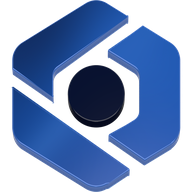
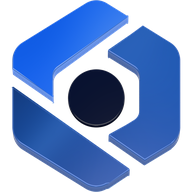
Header mark: top-left blade in the accent blue; thin core so the dot reads as a circle

diff --git a/tools/tiles/logo-boot.js b/tools/tiles/logo-boot.js
@@ -3,7 +3,9 @@
 // same studio light. PARAMS: look 'cobalt' (the focused tile's glass) or 'clear' (a default tile's
 // frosted glass), elev (camera height in degrees), size (logo width in tile units), depth (slab thickness as a share of a tile's), inset (SVG units each blade is
 // pulled in by, which widens the gaps between blades; the navy core keeps its size), spin (degrees the mark turns in its own plane,
-// for turntable frames), transparent (no floor
+// for turntable frames), coreDepth (the core's thickness as a share of the blades': thin keeps it reading as a
+// circle once straightened, its wall hidden), accentPath (index of the SVG path drawn in the accent blue,
+// the site's --color-accent), transparent (no floor
 // or background, for a cut-out PNG). __info.corners gives the screen pixels of the mark's top-face square,
 // so the frame can be straightened into a front view (tools/tiles/flatten_logo.py).
 import * as THREE from 'three';
@@ -13,7 +15,7 @@ import { floorMaterial, floorUniforms } from '/src/tiles/floor-material.js';
 import { buildComposer } from '/src/tiles/post.js';
 
 const RAW = await fetch('/tiles/floor-params.json').then((r) => r.json());
-const opt = Object.assign({ look: 'cobalt', elev: 40, size: 1.6, transparent: false, depth: 1, inset: 0, spin: 0 }, window.PARAMS);
+const opt = Object.assign({ look: 'cobalt', elev: 40, size: 1.6, transparent: false, depth: 1, inset: 0, spin: 0, coreDepth: 1, accentPath: -1 }, window.PARAMS);
 const P = Object.assign({ W: 1920, H: 1080 }, RAW, RAW.states?.default ?? {}, { actHeadGlow: 0 }, opt.transparent ? { filmGrain: 0 } : {});
 
 const renderer = new THREE.WebGLRenderer({ antialias: true, preserveDrawingBuffer: true, alpha: opt.transparent });
@@ -44,18 +46,23 @@ const svg = new SVGLoader().parse(await fetch('/brand/sixlabs-mark.svg').then((r
 const [vx, vy, vw, vh] = svg.xml.getAttribute('viewBox').split(/\s+/).map(Number);
 const k = opt.size / vw, cx = vx + vw / 2, cy = vy + vh / 2, span = Math.max(vw, vh) * k; // UV square: the tile textures are square
 const logo = new THREE.Group();
-for (const path of svg.paths) {
-  const navy = path.color.getHexString() === '030d2d';
+// The accent blade: the same cobalt glass, its colours lifted to the site accent (#1a6dff).
+const PX = Object.assign({}, P, {
+  actLightCol: '#4d8dff', actDarkCol: '#1a6dff', actSheenCol: '#5b97ff', actUnderCol: '#1a5ee6', actRim: '#1a5ee6',
+  actSide: '#8ab4ff', actSideDark: '#1a5ee6', actSideLight: '#4d8dff',
+});
+svg.paths.forEach((path, pi) => {
+  const navy = path.color.getHexString() === '030d2d', depth = P.core * opt.depth * (navy ? opt.coreDepth : 1);
   for (const shape of path.toShapes(true)) {
     const g = new THREE.ExtrudeGeometry(shape, {
-      depth: P.core * opt.depth / k, bevelEnabled: true, bevelThickness: P.bevelT / k, bevelSize: P.bevel / k, bevelOffset: navy ? 0 : -opt.inset, bevelSegments: 6, curveSegments: 24,
+      depth: depth / k, bevelEnabled: true, bevelThickness: P.bevelT / k, bevelSize: P.bevel / k, bevelOffset: navy ? 0 : -opt.inset, bevelSegments: 6, curveSegments: 24,
     });
     g.translate(-cx, -cy, 0);
     g.scale(k, k, k);
     // Lie flat with the SVG's first face on top: SVG down becomes toward the camera, so the mark reads
     // upright, and nothing is mirrored (a mirror would turn every face inside out).
     g.rotateX(Math.PI / 2);
-    g.translate(0, P.core * opt.depth + P.bevelT, 0);
+    g.translate(0, depth + P.bevelT, 0);
     const pos = g.attributes.position, uv = g.attributes.uv;
     for (let n = 0; n < pos.count; n++) uv.setXY(n, pos.getX(n) / span + 0.5, 0.5 - pos.getZ(n) / span);
     const beamU = { uBeam: { value: 2 }, uBeamI: { value: 0 }, uFlare: { value: 0 }, uBackRim: { value: 0 }, uShine: { value: new THREE.Color(0) }, uHotF: { value: new THREE.Color(0) }, uHotR: { value: new THREE.Color(0) } };
@@ -64,10 +71,10 @@ for (const path of svg.paths) {
     if (navy && opt.look !== 'clear') { // the clear look keeps the core in the same white glass
       const dark = new THREE.MeshPhysicalMaterial({ color: '#030d2d', roughness: 0.12, clearcoat: 1, clearcoatRoughness: 0.04, envMapIntensity: 1.2 });
       mats = [dark, dark];
-    } else mats = opt.look === 'clear' ? glassMaterials(P, { leftBand: false }) : activeMaterials(P, rearEnv, beamU);
+    } else mats = opt.look === 'clear' ? glassMaterials(P, { leftBand: false }) : activeMaterials(pi === opt.accentPath ? PX : P, rearEnv, beamU);
     logo.add(new THREE.Mesh(g, mats));
   }
-}
+});
 if (opt.look === 'cobalt') logo.position.y = 0.0005;
 // Turn the mark to face the camera, which sits on the floor's own azimuth.
 const az = THREE.MathUtils.degToRad(P.azim);
